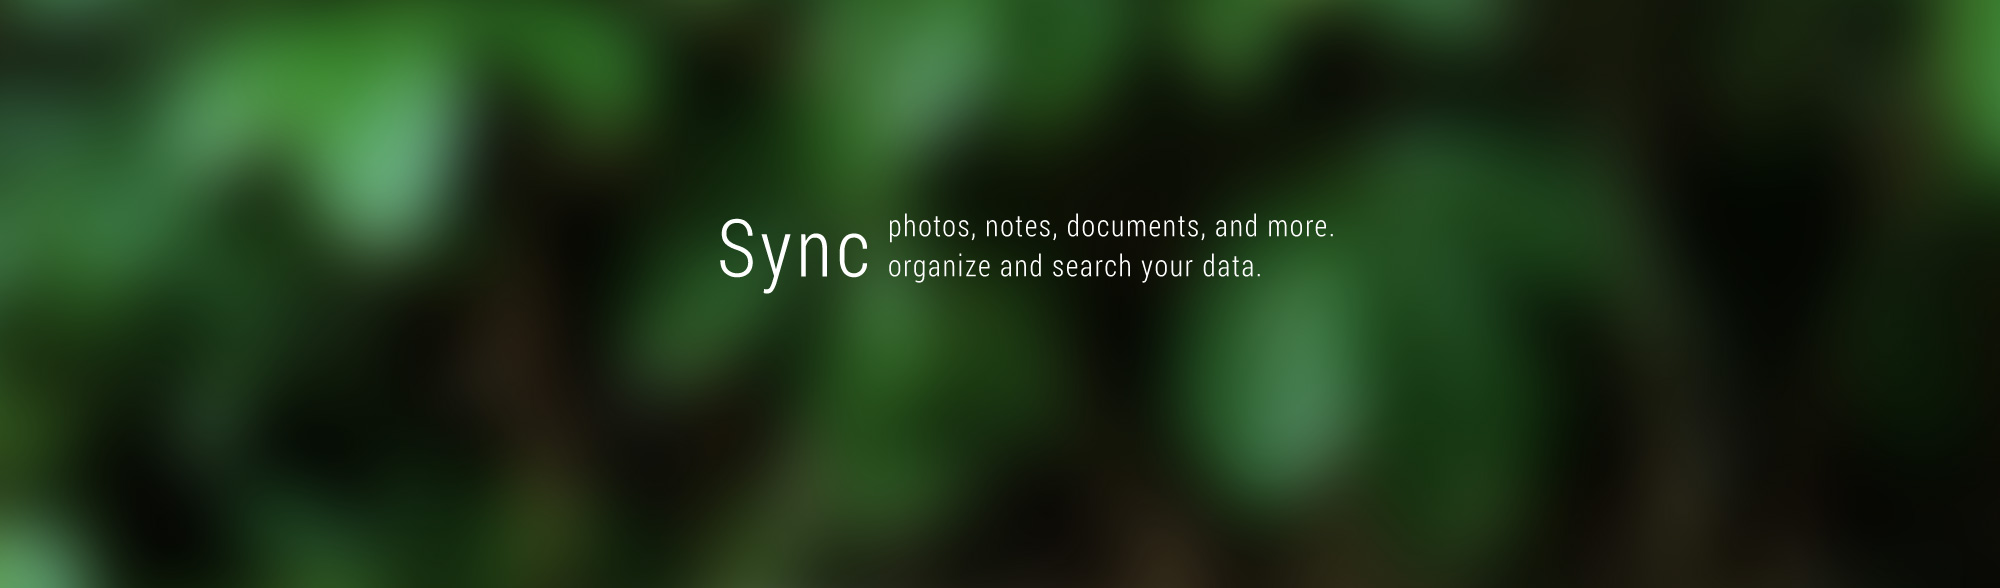
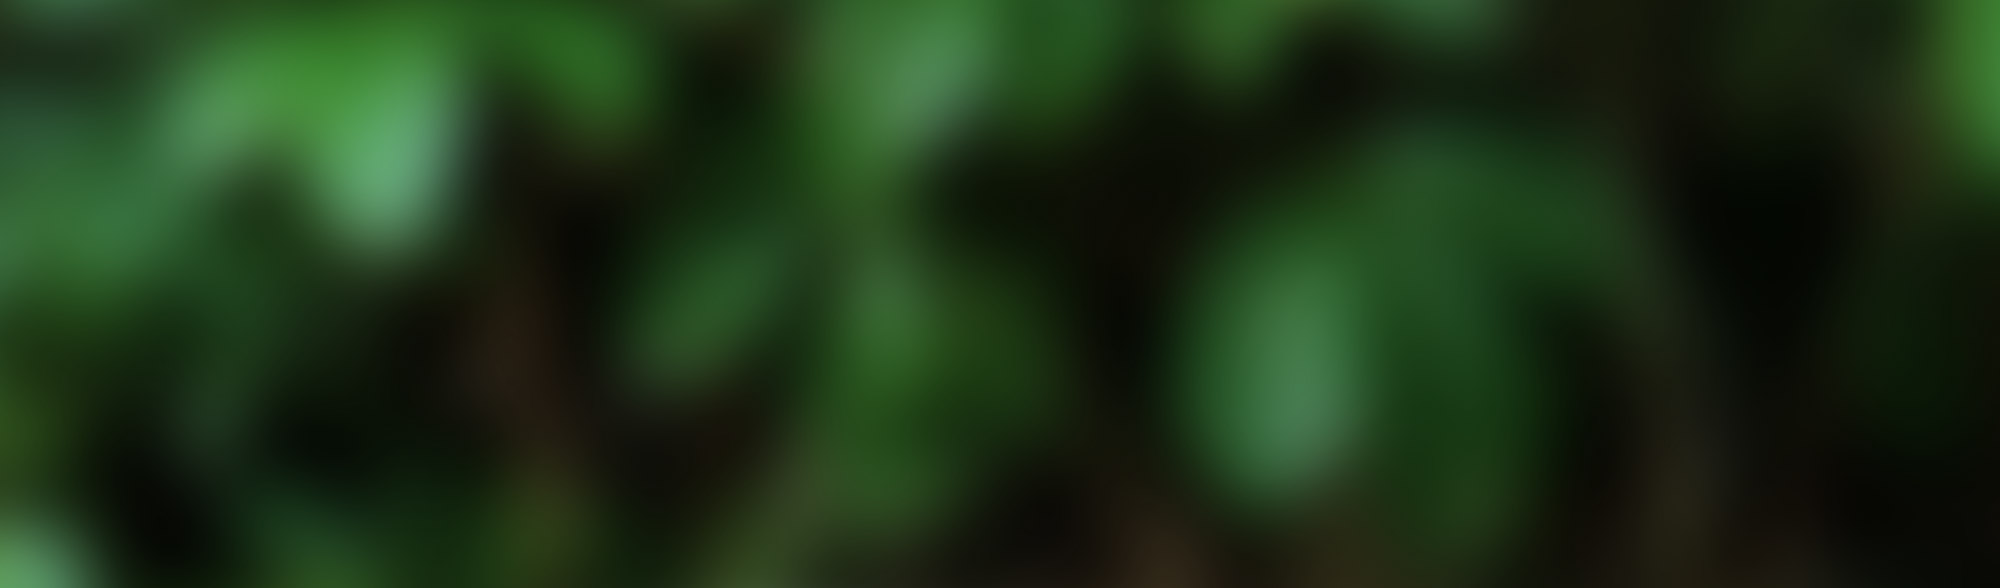
converting slides to be 100% html =]. now all text is easily modifiable, and the design is nearly exactly the same (not pixel-perfect, but very close to raster versions). nice.

Changed region(s): [[0.341, 0.3673, 0.62, 0.4898], [0.434, 0.3673, 0.682, 0.398]]

diff --git a/webroot/css/site.css b/webroot/css/site.css
@@ -48,11 +48,15 @@ a icon {cursor: pointer;}
 .slideshow .container a.slide-lol:hover {opacity: 1;}
 .slideshow .container a.back {left: 20px;}
 .slideshow .container a.forward {right: 20px; background-position: -129px 0;}
+.slideshow .standard {position: absolute; width: 100%; top: 217px;}
+.slideshow .standard h1 {display: inline-block; position: absolute; top: -9px; right: 50%; margin-right: 128px; font-family: 'roboto condensed'; font-size: 80px; font-weight: 100; color: #fff; line-height: 1em; letter-spacing: .05em;}
+.slideshow .standard p {display: inline-block; position: absolute; top: -10px; left: 50%; margin-left: -112px; font-family: 'roboto condensed'; font-size: 30px; font-weight: 100; line-height: 1.3em; color: #fff; letter-spacing: .045em; text-transform: lowercase;}
 .slideshow .pager {position: absolute; bottom: 68px; z-index: 20; left: 50%; width: 200px; margin-left: -100px; text-align: center;}
 .slideshow .pager a {display: inline-block; width: 16px; height: 16px; margin: 0 2px; padding: 0; background: url(/images/home/slide_controls.png) left bottom no-repeat;}
 .slideshow .pager a.active {background-position: -24px bottom;}
 .slideshow .pager a span {display: none;}
 /* per-slide styles */
+.slideshow #slide-1 p.note {position: absolute; bottom: 220px; width: 100%; margin: 0; padding: 0; font-family: 'Roboto Condensed'; font-size: 15px; word-spacing: .06em; letter-spacing: .01em; color: #fff; text-align: center; opacity: .9;}
 .slideshow #slide-2 ul.screenshots {position: absolute; z-index: 3; bottom: 110px; width: 100%; list-style: none; text-align: center; margin: 0 auto;}
 .slideshow #slide-2 ul.screenshots li {display: inline-block; opacity: .8; background: url(/images/home/screens/thumbs.png) 0 0 no-repeat; transition: opacity .15s;}
 .slideshow #slide-2 ul.screenshots li:hover {opacity: 1;}

diff --git a/views/modules/slideshow.md b/views/modules/slideshow.md
@@ -7,9 +7,24 @@ markdown: off
         <ul>
             <li style="background-image: url('/images/home/slides/1.jpg');" id="slide-1" class="slide main">
                 <!--<a href="/download" class="full"></a>-->
+                <div class="standard">
+                    <h1>Turtl</h1>
+                    <p>
+                        Securely store notes and files.<br>
+                        Collaborate with others.
+                    </p>
+                </div>
+                <p class="note">Turtl uses client-side encryption to protect your data.</p>
                 <a href="#more-info" class="button default smoooth">Read more</a>
             </li>
             <li style="background-image: url('/images/home/slides/2.jpg');" id="slide-2" class="slide screens">
+                <div class="standard">
+                    <h1>Sync</h1>
+                    <p>
+                        Photos, notes, documents, and more.<br>
+                        Organize and search your data.
+                    </p>
+                </div>
                 <ul class="screenshots">
                     <li class="playlist">
                         <a rel="modal 800" target="_blank" title="Playlist board" href="/images/home/screens/playlist.jpg"><span>Playlists</span></a>
@@ -26,6 +41,13 @@ markdown: off
                 </ul>
             </li>
             <li style="background-image: url('/images/home/slides/3.jpg');" id="slide-3" class="slide join">
+                <div class="standard">
+                    <h1>Join</h1>
+                    <p>
+                        Stay in the loop on our progress.<br>
+                        Get exclusive offers and updates.
+                    </p>
+                </div>
                 <a href="#join" class="full"></a>
                 {{module:mailing}}
             </li>

diff --git a/views/pages/index.md b/views/pages/index.md
@@ -1,5 +1,5 @@
 ---
-title: Turtl: Secure file and note storage
+title: Turtl: A secure app for note-taking, research, and collaboration
 layout: default
 markdown: off
 pre-content: slideshow
